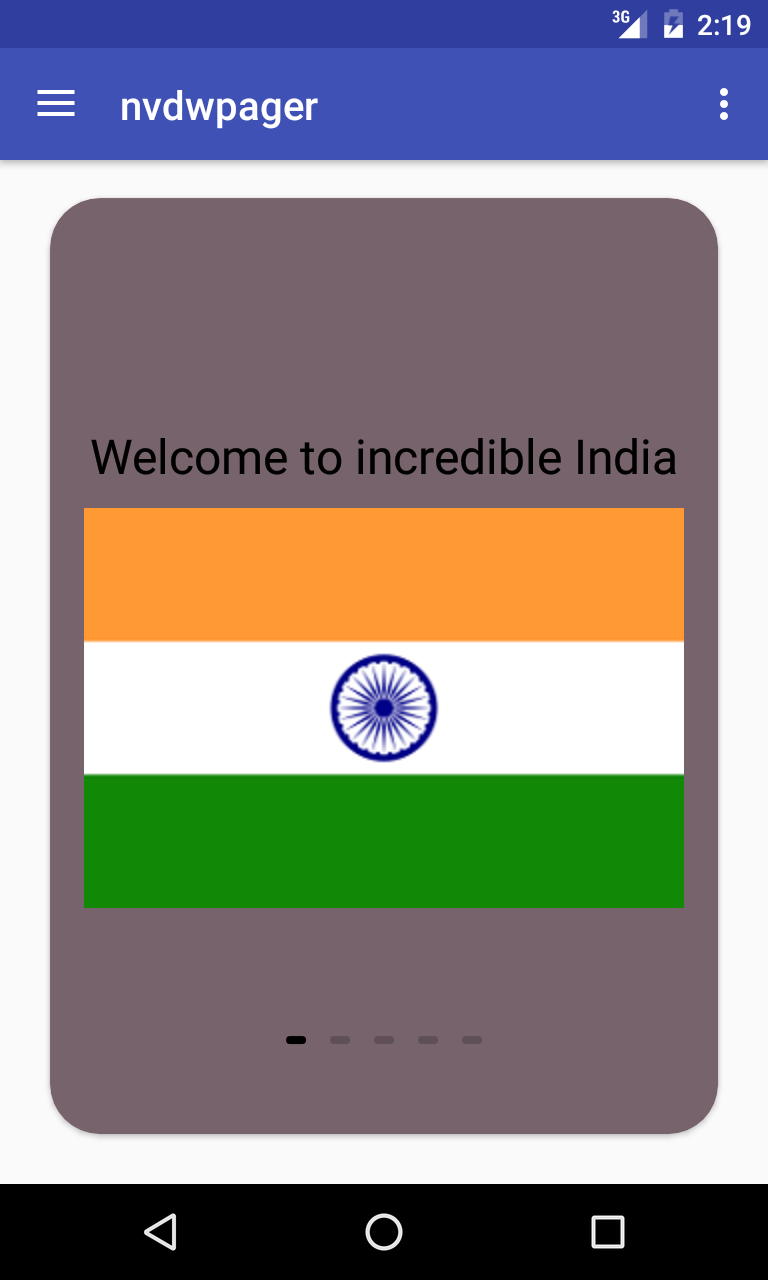
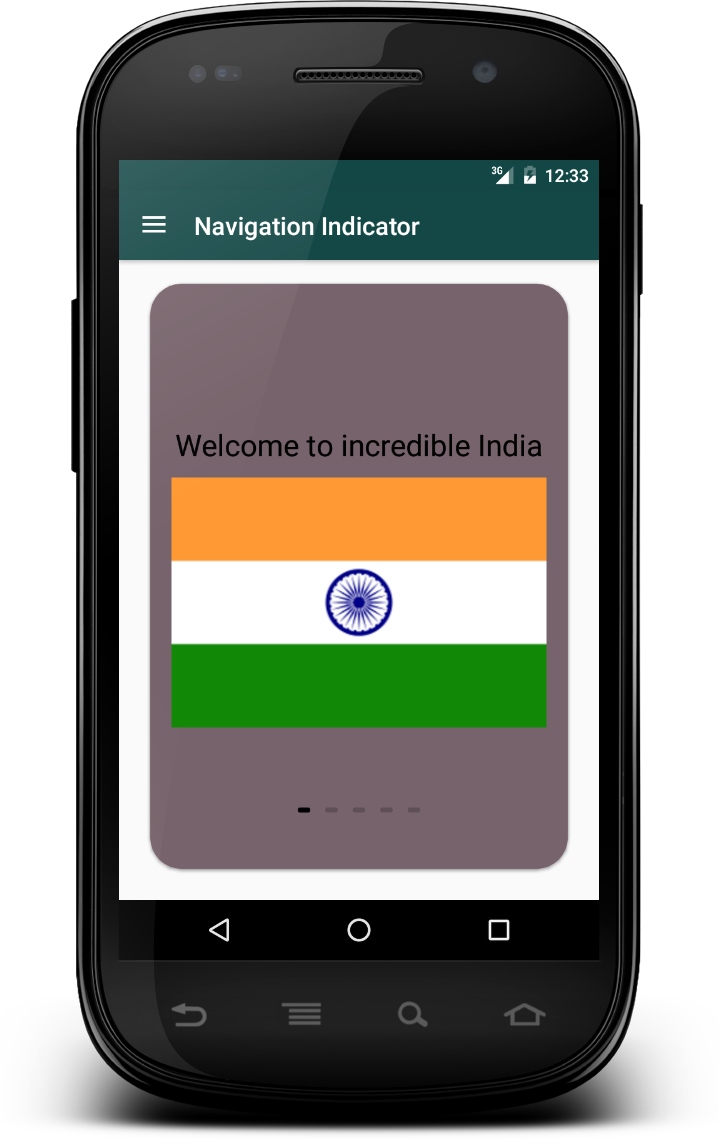
Application Beautification and navigation header part changes
Did some modification:
- Action bar color
- Status bar color change
- Navigation header part as been changed.
- App Name has been changed

diff --git a/app/src/main/java/com/tknuk/cardnavigation/MainActivity.java b/app/src/main/java/com/tknuk/cardnavigation/MainActivity.java
@@ -1,5 +1,7 @@
 package com.tknuk.cardnavigation;
 
+import android.annotation.TargetApi;
+import android.os.Build;
 import android.os.Bundle;
 import android.support.design.widget.NavigationView;
 import android.support.v4.app.Fragment;
@@ -12,13 +14,23 @@ import android.support.v7.widget.Toolbar;
 import android.view.Menu;
 import android.view.MenuItem;
 import android.view.View;
+import android.view.Window;
+import android.view.WindowManager;
 
 public class MainActivity extends AppCompatActivity
         implements NavigationView.OnNavigationItemSelectedListener {
 
+    @TargetApi(Build.VERSION_CODES.LOLLIPOP)
     @Override
     protected void onCreate(Bundle savedInstanceState) {
         super.onCreate(savedInstanceState);
+        Window window = this.getWindow();
+        window.addFlags(WindowManager.LayoutParams.FLAG_DRAWS_SYSTEM_BAR_BACKGROUNDS);
+        window.clearFlags(WindowManager.LayoutParams.FLAG_TRANSLUCENT_STATUS);
+        if (Build.VERSION.SDK_INT >= Build.VERSION_CODES.KITKAT) {
+            window.setStatusBarColor(this.getResources().getColor(R.color.statusBar));
+        }
+
         setContentView(R.layout.activity_main);
         Toolbar toolbar = (Toolbar) findViewById(R.id.toolbar);
         setSupportActionBar(toolbar);
@@ -59,28 +71,6 @@ public class MainActivity extends AppCompatActivity
         } else {
             super.onBackPressed();
         }
-    }
-
-    @Override
-    public boolean onCreateOptionsMenu(Menu menu) {
-        // Inflate the menu; this adds items to the action bar if it is present.
-        getMenuInflater().inflate(R.menu.main, menu);
-        return true;
-    }
-
-    @Override
-    public boolean onOptionsItemSelected(MenuItem item) {
-        // Handle action bar item clicks here. The action bar will
-        // automatically handle clicks on the Home/Up button, so long
-        // as you specify a parent activity in AndroidManifest.xml.
-        int id = item.getItemId();
-
-        //noinspection SimplifiableIfStatement
-        if (id == R.id.action_settings) {
-            return true;
-        }
-
-        return super.onOptionsItemSelected(item);
     }
 
     @SuppressWarnings("StatementWithEmptyBody")
